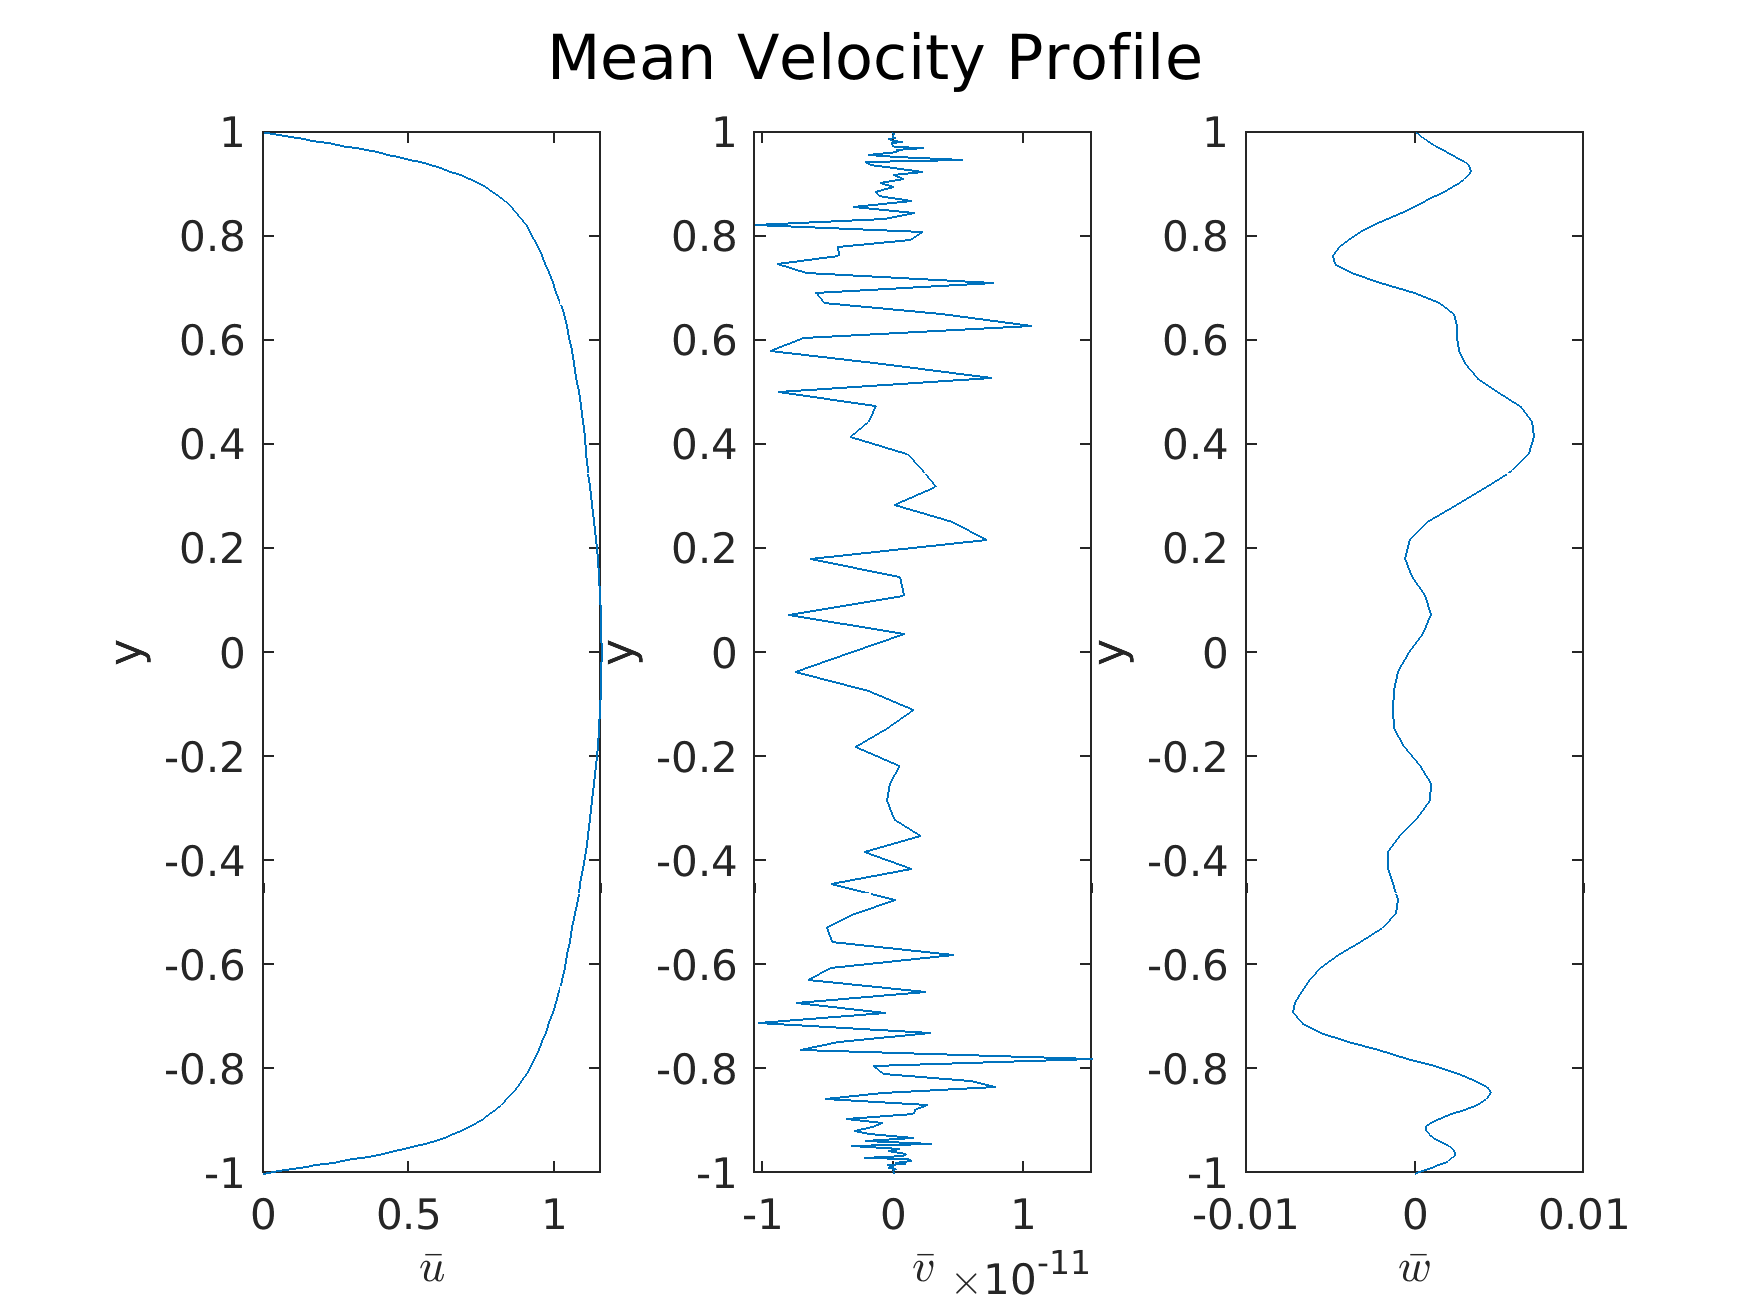
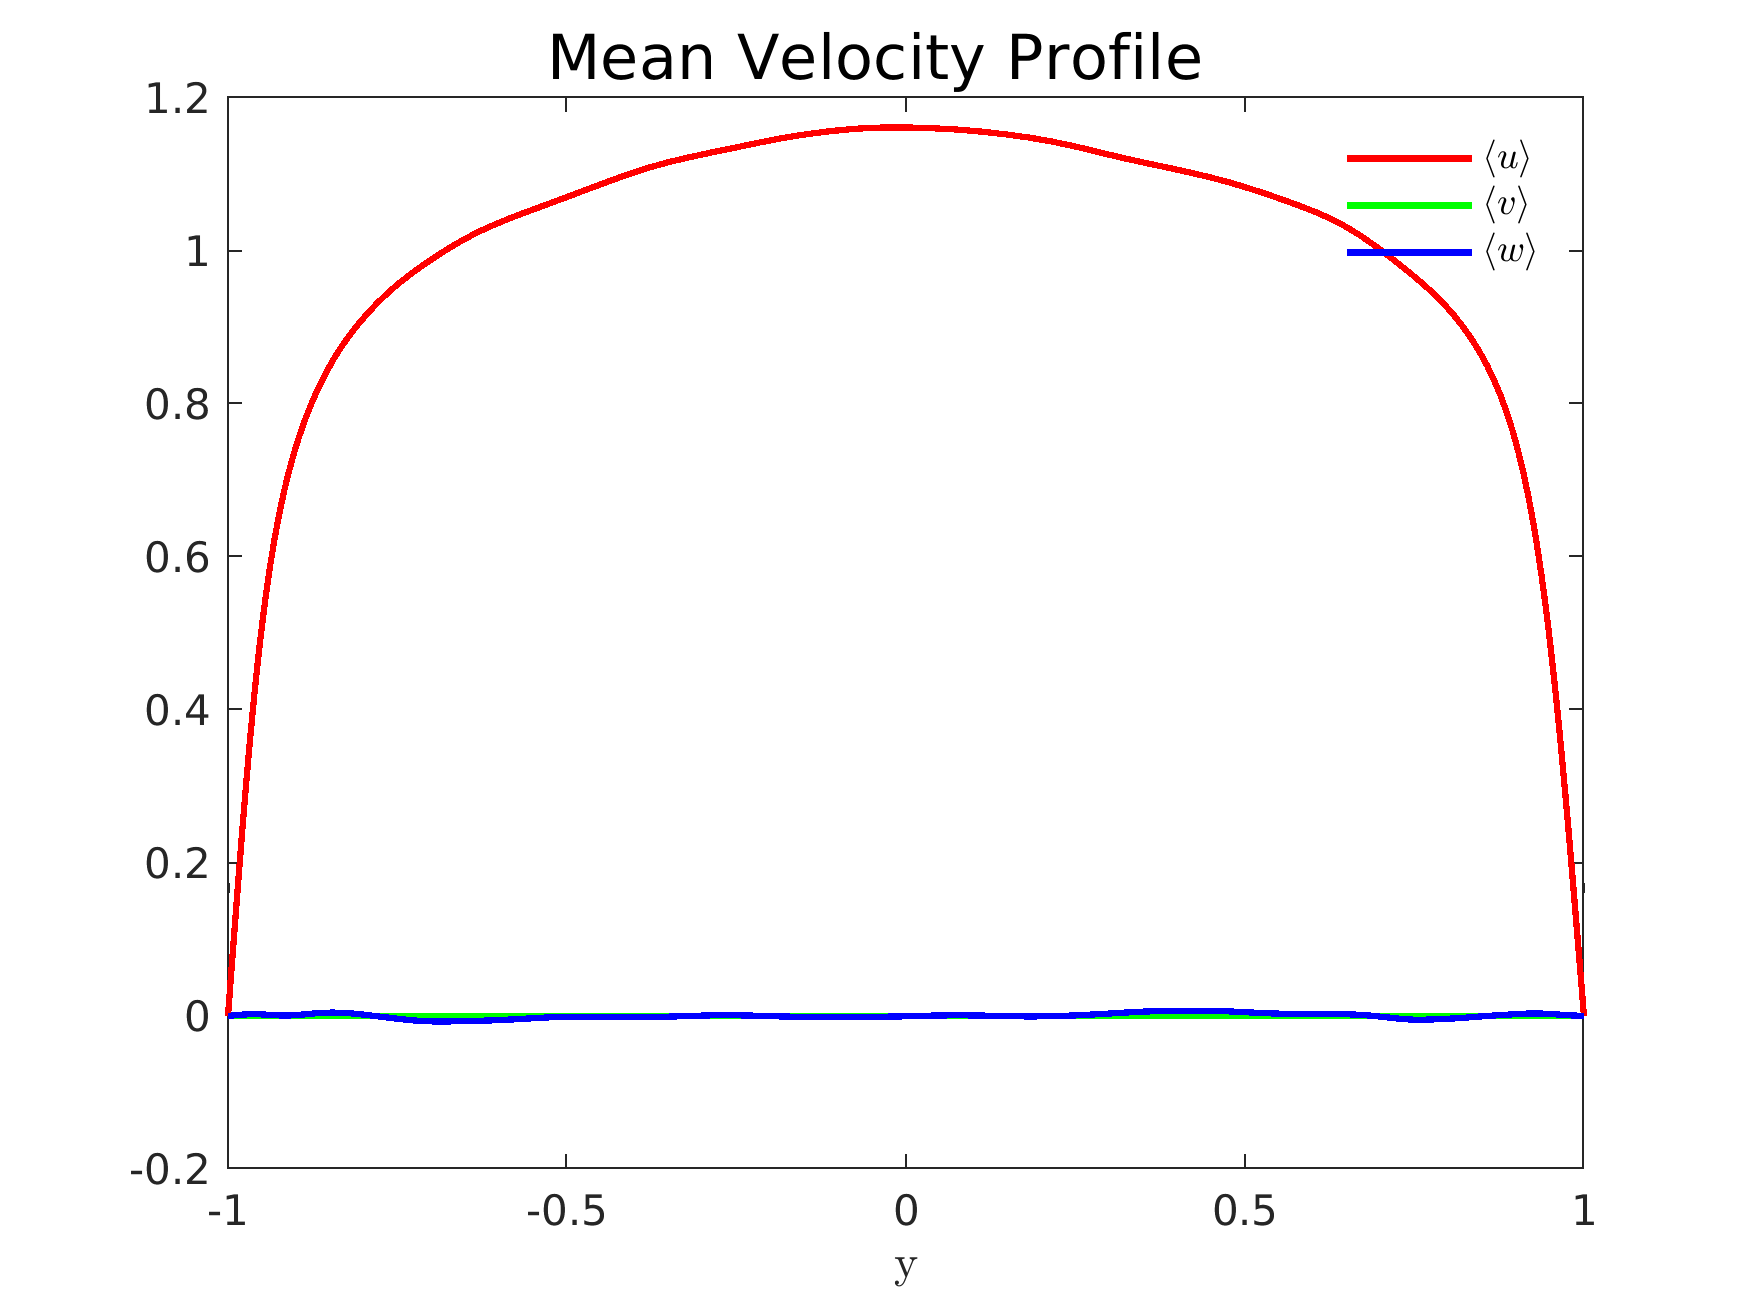
new

diff --git a/function/plotn.m b/function/plotn.m
@@ -1,0 +1,28 @@
+function plotn( X, Y, outputPath, labelsx, labelsy, title)
+    
+    % Create the figure
+    figure;
+
+    % Labels for the subplots
+
+    % Plot each Reynolds stress component
+    n = size(labelsx, 2);
+    for i = 1:n
+        subplot(n / 3, 3, i);
+        plot(X{i}, Y);
+        xlabel(labelsx{i}, 'Interpreter', 'latex');
+        ylabel(labelsy{i}, 'Interpreter', 'latex');
+    end
+
+    % Add a title for the entire figure
+    sgtitle(title, 'HorizontalAlignment', 'center');
+
+    % Save the figure as a PNG file
+    print(gcf, outputPath, '-dpng', '-r300');
+
+    % Close the figure
+    close(gcf);
+
+    % Display the image
+    imshow(imread(outputPath), 'InitialMagnification', 'fit')
+end

diff --git a/function/plot1.m b/function/plot1.m
@@ -1,0 +1,20 @@
+function plot1(X, Y, colors,outputPath, labelsx, labelsy, title, leg)
+ 
+n =size(colors,2);
+figure;
+% Plotting
+hold on;
+for i = 1:n
+    plot(X, Y{i}, colors{i}, 'LineWidth', 1.5);
+end
+hold off;
+box on;
+
+xlabel(labelsx, 'Interpreter', 'latex');
+ylabel(labelsy, 'Interpreter', 'latex');
+legend(leg, 'Interpreter', 'latex', 'Box', 'off', 'Location', 'NorthEast');
+sgtitle(title, 'HorizontalAlignment', 'center');
+
+% Save the plot as PNG with high resolution
+print(gcf, outputPath, '-dpng', '-r300');
+end

diff --git a/function/calculateNthMoments.m b/function/calculateNthMoments.m
@@ -1,0 +1,13 @@
+function [u_n, v_n, w_n] = calculateNthMoments(u_turb, v_turb, w_turb, n)
+    % calculateNthMoments calculates the n-th moments of turbulent fluctuations.
+    
+    % Calculate the n-th power of turbulent fluctuations
+    u_n = u_turb .^ n;
+    v_n = v_turb .^ n;
+    w_n = w_turb .^ n;
+
+    % Take the mean along dimensions 1 and 3
+    u_n = mean(u_n, [1 3]);
+    v_n = mean(v_n, [1 3]);
+    w_n = mean(w_n, [1 3]);
+end
